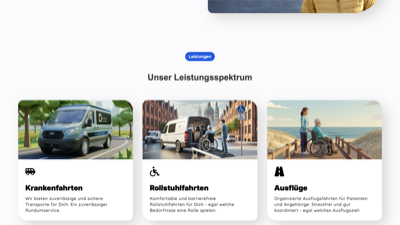
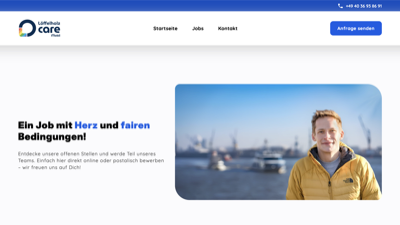
feat: add images for Löffelholz Care Mobil project and update alt text for improved accessibility

diff --git a/src/data/projects.ts b/src/data/projects.ts
@@ -82,7 +82,7 @@ export const projects: Project[] = [
       },
       {
         src: '/assets/images/projects/boomerang-boxen-20260721.png',
-        alt: 'Boomerang product grid showing the Briefkasten, Automatikboden, and Pick & Ship reusable box models',
+        alt: 'Boomerang product grid showing the letterbox-slot, auto-bottom, and Pick & Ship reusable box models',
       },
       {
         src: '/assets/images/projects/boomerang-testimonial-20260721.png',
@@ -102,20 +102,20 @@ export const projects: Project[] = [
     image: '/assets/images/project-card-loeffelholz-care-20260605.png',
     mobileImage: {
       src: '/assets/images/projects/loeffelholz-care-mobile-20260721.jpg',
-      alt: 'Löffelholz Care homepage on mobile, scrolled through the Hamburg Speicherstadt hero, the founder photo, and the "Ein Rundum-Sorglospaket" section',
+      alt: 'Löffelholz Care homepage on mobile, scrolled through the Hamburg Speicherstadt hero, the founder photo, and the "all-inclusive care package" section',
     },
     images: [
       {
         src: '/assets/images/projects/loeffelholz-care-hero-20260721.png',
-        alt: 'Löffelholz Care homepage hero showing Hamburg\'s Speicherstadt at dusk with the headline "Dein ambulanter Pflegedienst"',
+        alt: 'Löffelholz Care homepage hero showing Hamburg\'s Speicherstadt at dusk with the headline "Your Ambulatory Care Service"',
       },
       {
         src: '/assets/images/projects/loeffelholz-care-hauswirtschaft-20260721.png',
-        alt: 'Illustrated Hauswirtschaft service card listing grocery shopping, cleaning, laundry, and meal preparation',
+        alt: 'Illustrated household help service card listing grocery shopping, cleaning, laundry, and meal preparation',
       },
       {
         src: '/assets/images/projects/loeffelholz-care-kontakt-20260721.png',
-        alt: 'Contact form on the Kontakt page with fields for name, email, phone, and message',
+        alt: 'Contact form on the Contact page with fields for name, email, phone, and message',
       },
     ],
     alt: 'Löffelholz Care Website',
@@ -136,15 +136,15 @@ export const projects: Project[] = [
     images: [
       {
         src: '/assets/images/projects/loeffelholz-care-mobil-jobs-hero-20260722.png',
-        alt: 'Löffelholz Care Mobil jobs page hero with the headline "Ein Job mit Herz und fairen Bedingungen!" next to a driver portrait at Hamburg harbour',
+        alt: 'Löffelholz Care Mobil jobs page hero with the headline "A Job with Heart and Fair Conditions!" next to a driver portrait at Hamburg harbour',
       },
       {
         src: '/assets/images/projects/loeffelholz-care-mobil-kontakt-20260722.png',
-        alt: 'Kontakt page request form with fields for name, email, phone, and message',
+        alt: 'Contact page request form with fields for name, email, phone, and message',
       },
       {
         src: '/assets/images/projects/loeffelholz-care-mobil-leistungen-20260722.png',
-        alt: 'Service grid showing Krankenfahrten, Rollstuhlfahrten, and Ausflüge, each with an illustrated card',
+        alt: 'Service grid showing non-emergency medical transport, wheelchair transport, and outings, each with an illustrated card',
       },
     ],
     alt: 'Löffelholz Care Mobil Website',
@@ -152,7 +152,7 @@ export const projects: Project[] = [
     client: 'Löffelholz Care Mobil',
     topicTag: 'Web Design',
     tags: ['Webflow', 'Mobile-First', 'Frontend'],
-    description: 'Löffelholz Care Mobil is the patient transport side of the Löffelholz Care family: Krankenfahrten, Rollstuhlfahrten, and organized outings for people who need a driver they can rely on, not just a taxi. The site keeps the same visual language as the main Löffelholz Care site (the "care" wordmark, the Speicherstadt hero, the same warm tone), so returning visitors recognize the brand instantly, and each site links to the other in the footer since many families need both services.\n\nThe site runs on Webflow, the same setup as the sister site, so the Löffelholz Care team can update service descriptions and job listings themselves. The Jobs page carries its own application form for driver positions, separate from the general contact form on Kontakt, since staffing drivers is an ongoing need for the business.',
+    description: 'Löffelholz Care Mobil is the patient transport side of the Löffelholz Care family: non-emergency medical transport, wheelchair transport, and organized outings for people who need a driver they can rely on, not just a taxi. Like the main Löffelholz Care site, it\'s built mobile-first with large text, since most riders booking a ride are older and need to read the page comfortably. The site keeps the same visual language as the main site too (the "care" wordmark, the Speicherstadt hero, the same warm tone), so returning visitors recognize the brand instantly, and each site links to the other in the footer since many families need both services.\n\nThe site runs on Webflow, the same setup as the sister site, so the Löffelholz Care team can update service descriptions and job listings themselves. The Jobs page carries its own application form for driver positions, separate from the general contact form on Kontakt, since staffing drivers is an ongoing need for the business.',
     category: 'web',
   },
   {
